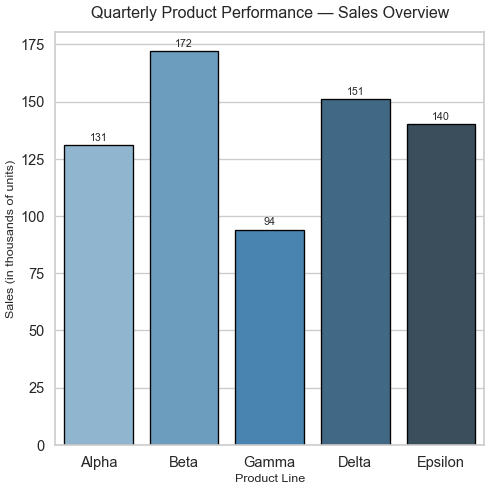
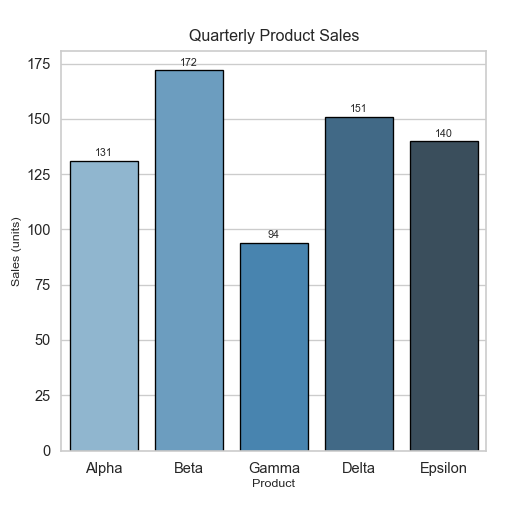
feat: chart v2

Changed region(s): [[0.0, 0.0, 1.0, 1.0]]

diff --git a/chart.py b/chart.py
@@ -1,5 +1,5 @@
 # chart.py
-# Generates a professional Seaborn barplot (512x512 PNG)
+# Generates a professional Seaborn barplot (exact 512x512 PNG)
 # Author: 24f2002446@ds.study.iitm.ac.in
 
 import seaborn as sns
@@ -14,59 +14,59 @@ np.random.seed(42)
 
 products = ["Alpha", "Beta", "Gamma", "Delta", "Epsilon"]
 sales = np.random.randint(80, 180, size=len(products))
-growth_rate = np.random.uniform(2.0, 12.0, size=len(products))
 
 df = pd.DataFrame({
     "Product": products,
-    "Quarterly Sales (k units)": sales,
-    "Growth (%)": growth_rate
+    "Sales": sales
 })
 
 # ---------------------------
 # Seaborn styling
 # ---------------------------
 sns.set_style("whitegrid")
-sns.set_context("talk")  # professional presentation scale
+sns.set_context("talk")
 
 # ---------------------------
-# Create 512 × 512 px figure
-# figsize=(8,8) with dpi=64 → 512px
+# Create EXACT 512×512 canvas
+# figsize(8,8) with dpi=64 → 512 px
 # ---------------------------
-plt.figure(figsize=(8, 8), dpi=64)
+fig = plt.figure(figsize=(8, 8), dpi=64)
 
 # ---------------------------
 # Barplot
 # ---------------------------
-sns.barplot(
+ax = sns.barplot(
     data=df,
     x="Product",
-    y="Quarterly Sales (k units)",
+    y="Sales",
     palette="Blues_d",
     edgecolor="black"
 )
 
-# ---------------------------
-# Professional labels & title
-# ---------------------------
-plt.title("Quarterly Product Performance — Sales Overview", fontsize=18, pad=15)
-plt.xlabel("Product Line", fontsize=14)
-plt.ylabel("Sales (in thousands of units)", fontsize=14)
+# Title & labels
+ax.set_title("Quarterly Product Sales", fontsize=18, pad=12)
+ax.set_xlabel("Product", fontsize=14)
+ax.set_ylabel("Sales (units)", fontsize=14)
 
-# Annotate bars with values
-for index, value in enumerate(df["Quarterly Sales (k units)"]):
-    plt.text(
-        index,
-        value + 2,
-        f"{value}",
-        ha="center",
-        fontsize=12
-    )
+# Annotate values
+for i, val in enumerate(df["Sales"]):
+    ax.text(i, val + 2, str(val), ha="center", fontsize=12)
 
 # ---------------------------
-# Save Export — EXACT 512x512
+# Force exact size (NO trimming)
 # ---------------------------
-plt.tight_layout()
-plt.savefig("chart.png", dpi=64, bbox_inches="tight")
+plt.subplots_adjust(
+    left=0.12,
+    right=0.95,
+    top=0.90,
+    bottom=0.12
+)
+
+# ---------------------------
+# Save EXACT 512x512
+# ---------------------------
+fig.savefig("chart.png", dpi=64)  # NO bbox_inches!
+
 plt.close()
 
-print("chart.png generated successfully (512x512 px)")
+print("chart.png generated — EXACT 512×512 pixels")
